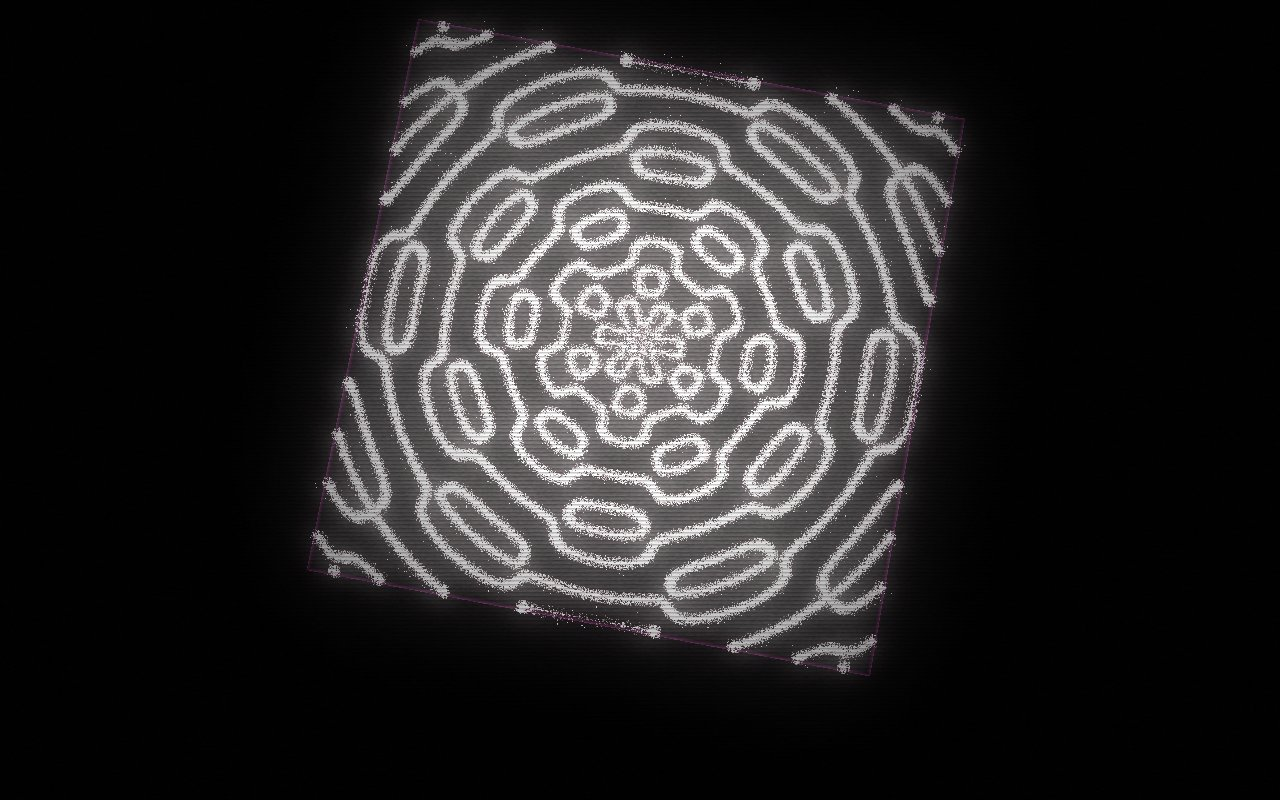
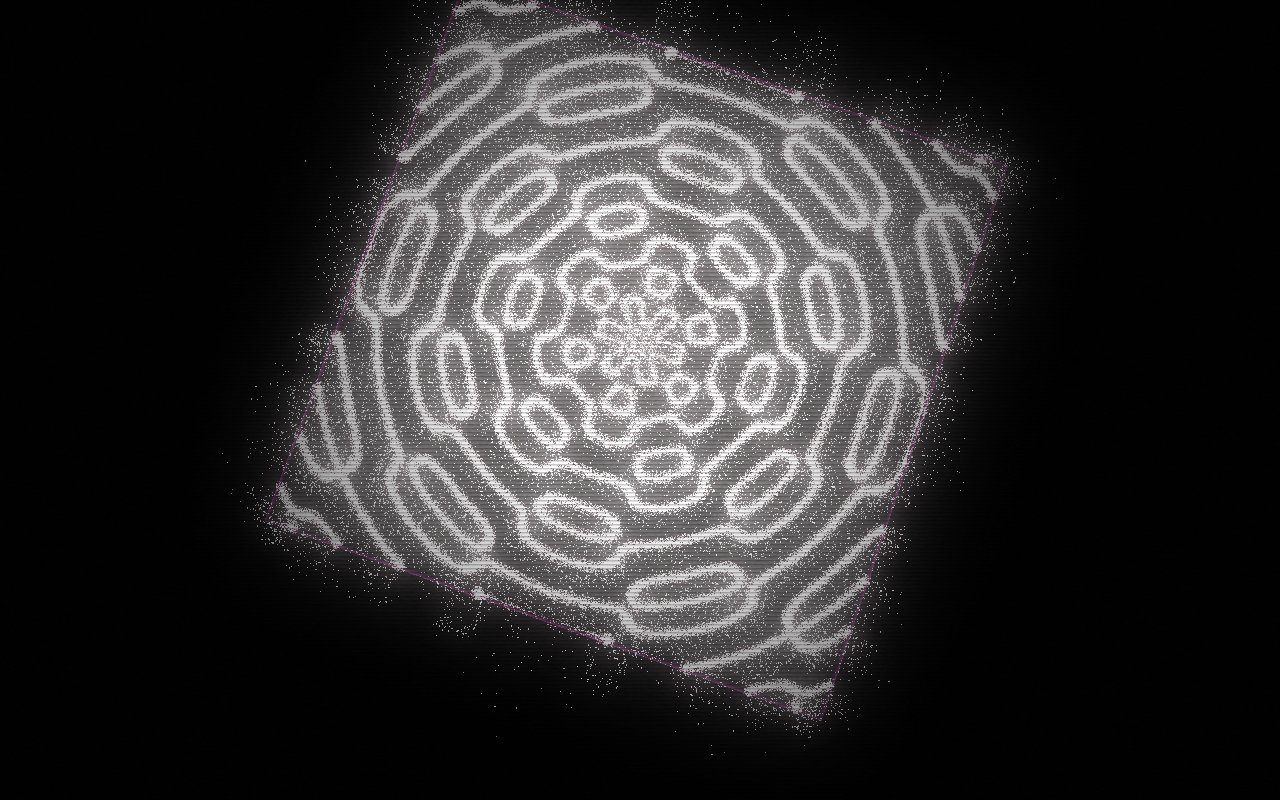
Cimática: upgrade — montaje cortado a ritmo (5 planos), polvo y saltos grandes, migraciones en arco, ruptura con la placa encendida
Claude-Session: https://claude.ai/code/session_01PHyPu7RkDzX2ru9pxXtJdV

Changed region(s): [[0.1875, 0.0, 0.8125, 0.9062]]

diff --git a/lab-32-cimatica/index.html b/lab-32-cimatica/index.html
@@ -494,7 +494,7 @@ canvas{width:100vw;height:100vh;display:block}
         vec3 r = reflect(rd, vec3(0, 1, 0));
         float soft = smoothstep(0.55, 0.95, dot(r, normalize(vec3(-0.6, 0.35, -0.7))));
         col = vec3(0.004) + vec3(0.9, 0.92, 1.) * soft * 0.03 * uKey;
-        col += mix(vec3(0.75, 0.8, 0.95), MAG, uAcc * 0.6) * pow(abs(U(p.xz, uMb)), 2.) * uPk * 0.05;   // la onda bajo la arena
+        col += mix(vec3(0.75, 0.8, 0.95), MAG, uAcc * 0.8) * pow(abs(U(p.xz, uMb)), 2.) * uPk * 0.07 + MAG * uAcc * 0.05 * (1. - smoothstep(0., 0.25, abs(U(p.xz, uMb))));   // la onda bajo la arena
         col *= 1. - 0.5 * smoothstep(0.6, 1.0, e);
         col += vec3(1.) * smoothstep(0.996, 1.0, e) * 0.08 * uKey;                  // canto fino
         col += MAG * smoothstep(0.985, 1.0, e) * uAcc * 0.9;                         // el canto se enciende en magenta
@@ -551,13 +551,22 @@ canvas{width:100vw;height:100vh;display:block}
     p += (vec2(hs(id + floor(uTime * 30.)), hs(id * 3. + floor(uTime * 30.))) - 0.5) * 0.004 * u * (1. - uFreeze);
     float y = 0.0015;
     // salto durante la migración
-    y += uHop * 0.018 * sin(PI * kk) * (0.4 + 0.6 * hs(id * 7.1));
+    y += uHop * 0.065 * sin(PI * kk) * (0.4 + 0.6 * hs(id * 7.1));
     // bombo: la placa golpea y salta la arena que no está en una línea nodal
-    float ka = uK.x; float dust = step(0.975, hs(id * 11.3));
-    if (ka >= 0. && ka < 0.9) { float dur = mix(0.12 + 0.18 * hs(id * 9.7), 0.5 + 0.35 * hs(id * 2.9), dust); float bt = ka / dur; if (bt < 1.) y += uK.y * mix(0.022, 0.16 + 0.12 * hs(id * 4.4), dust) * u * 4. * bt * (1. - bt); }
+    float ka = uK.x; float dust = step(0.88, hs(id * 11.3));
+    if (ka >= 0. && ka < 1.5) {
+      float dur = mix(0.16 + 0.2 * hs(id * 9.7), 0.7 + 0.6 * hs(id * 2.9), dust); float bt = ka / dur;
+      if (bt < 1.) {
+        float arc = 4. * bt * (1. - bt);
+        y += uK.y * mix(0.055, 0.25 + 0.4 * hs(id * 4.4), dust) * (0.3 + u) * arc;
+        // los granos se apartan de su línea y vuelven a caer en ella (se ve también desde arriba)
+        vec2 dir = normalize(vec2(hs(id * 3.3) - 0.5, hs(id * 5.9) - 0.5) + 1e-4);
+        p += dir * uK.y * mix(0.02, 0.09, dust) * (0.3 + u) * sin(3.14159 * bt);
+      }
+    }
     // caja: un anillo que recorre la placa
     float rs = length(p - uS.zw), ring = uS.x * 2.6;
-    if (uS.x >= 0. && uS.x < 0.6) y += uS.y * 0.05 * exp(-pow((rs - ring) / 0.06, 2.)) * (1. - uS.x / 0.6);
+    if (uS.x >= 0. && uS.x < 0.7) { float rw = exp(-pow((rs - ring) / 0.09, 2.)) * (1. - uS.x / 0.7); y += uS.y * 0.14 * rw * (0.6 + 0.8 * hs(id * 6.6)); p += normalize(p - uS.zw + 1e-4) * uS.y * 0.03 * rw; }
     vec3 P = vec3(p.x, y, p.y);
     // proyección (la misma cámara que la placa)
     vec3 d = P - uCam; float z = dot(d, uFw);
@@ -565,13 +574,13 @@ canvas{width:100vw;height:100vh;display:block}
     vec2 vv = s / vec2(uRes.x / uRes.y, 1.) + 0.5 + uShift;
     gl_Position = vec4(vv * 2. - 1., 0., 1.);
     float coc = abs(z - uFocus) * uAp;
-    gl_PointSize = clamp(uPx / z + coc * uRes.y, 1.2, 40.);
+    gl_PointSize = clamp(uPx / z + coc * uRes.y, 1.2, 12.);
     vC = coc * uRes.y;
     // brillo: luz rasante + destellos de los hats + la línea del metal
     float b = 0.55 + 0.45 * hs(id * 4.3);
     if (uHh.x >= 0. && uHh.x < 0.09 && hs(id * 0.77 + uHh.z) < 0.06) b += uHh.y * 3.5 * (1. - uHh.x / 0.09);
     if (uMt.x >= 0. && uMt.x < 0.18 && abs(p.x - uMt.z) < 0.018) b += uMt.y * 2.2 * (1. - uMt.x / 0.18);
-    b += y * 40.;
+    b += min(y * 35., 2.5) + dust * step(0.02, y) * 1.2;
     // destellos: granos que reflejan la luz rasante según el ángulo de cámara
     float glin = pow(max(0., sin(hs(id * 13.1) * 40. + dot(uFw, vec3(9., 0., 7.)) * 6.)), 60.);
     b += glin * 4.;
@@ -582,7 +591,7 @@ canvas{width:100vw;height:100vh;display:block}
   const vec3 MAG = vec3(1.0, 0.17, 0.84);
   void main(){
     vec2 c = gl_PointCoord * 2. - 1.; float r2 = dot(c, c); if (r2 > 1.) discard;
-    float bok = 1. / (1. + vC * vC * 0.12);                       // el grano desenfocado reparte su luz en el disco
+    float bok = 1. / (1. + vC * vC * 0.3);                       // el grano desenfocado reparte su luz en el disco
     float sh = 0.55 + 0.45 * max(0., dot(normalize(vec3(c.x, -c.y, sqrt(max(1. - r2, 0.)))), normalize(vec3(-0.5, 0.6, 0.6))));
     vec3 col = mix(vec3(1., 0.97, 0.92), MAG, uAcc * 0.35) * vB * sh * uKey;
     o = vec4(col * mix(1. - r2 * 0.5, 0.8 + 0.2 * r2, step(2., vC)) * 0.75 * bok, 1.);
@@ -605,6 +614,22 @@ canvas{width:100vw;height:100vh;display:block}
   function last(v, t, minS) { let L = null; for (const x of EV) { if (x.t > t) break; if (x.v === v && (minS === undefined || x.s >= minS)) L = x; } return L; }
   function modeAt(t) { let i = 0; for (let k = 0; k < MODES.length; k++) if (MODES[k].t <= t) i = k; return i; }
   const mv = (m) => [m.n, m.m, m.sg, m.c];
+  // planos: macro rasante · 3/4 · cenital · a ras del canto · contrapicado lejano
+  const SHOT_DEF = [
+    { az: 0.6, d: 0.85, el: 0.16, daz: 0.05, dd: 0.03, del: 0.01, tx: 0.25, tz: 0.2 },
+    { az: 1.1, d: 1.9, el: 0.55, daz: 0.07, dd: 0.05, del: 0.0, tx: 0, tz: 0 },
+    { az: 1.4, d: 2.2, el: 1.5, daz: 0.09, dd: 0.04, del: 0.0, tx: 0, tz: 0 },
+    { az: 2.3, d: 1.4, el: 0.07, daz: -0.04, dd: 0.0, del: 0.01, tx: -0.2, tz: 0.1 },
+    { az: -0.4, d: 1.25, el: 0.32, daz: 0.06, dd: -0.03, del: 0.02, tx: 0.1, tz: -0.3 },
+  ];
+  const SHOTS = [{ t: 0, k: 0, r: 0 }];
+  { let lastT = 0, n = 0;
+    for (const x of EV) {
+      if (x.v !== 'K' || x.t >= T.cut) continue;
+      const inB = x.t >= T.tense; const minGap = inB ? 0.45 : 2.4;
+      if ((x.s >= 0.95 || (inB && x.s >= 0.5)) && x.t - lastT >= minGap) { n++; SHOTS.push({ t: x.t, k: [1, 2, 0, 3, 4, 2, 1, 3, 0, 4][n % 10], r: ((n * 7919) % 100) / 100 - 0.5 }); lastT = x.t; }
+    }
+  }
   const kf = (pts, x) => { for (let i = 1; i < pts.length; i++) if (x <= pts[i][0]) { const [t0, v0] = pts[i - 1], [t1, v1] = pts[i]; return lerp(v0, v1, e.inOut(clamp((x - t0) / (t1 - t0)))); } return pts[pts.length - 1][1]; };
 
   let out = null;
@@ -620,11 +645,13 @@ canvas{width:100vw;height:100vh;display:block}
       const mig = M1.c ? 1.1 : (M1.t >= T.tense ? 0.32 : 0.6);
       const mix = mi === 0 ? 1 : clamp((t - M1.t) / mig);
       const K = last('K', t), S = last('S', t), Hh = last('H', t), Mt = last('M', t), R = last('R', t);
-      // cámara: macro rasante → 3/4 → cenital perfecto para el mandala → se eleva
-      const az = kf([[0, 0.6], [8, 1.3], [T.cut, 1.55], [T.rupt, 1.55], [T.sting, 2.2]], tReal);
-      const dist = kf([[0, 0.9], [3, 1.6], [8, 2.3], [T.cut, 2.0], [T.rupt, 2.0], [T.rupt + 1.6, 3.1], [T.sting, 3.8]], tReal);
-      const el = kf([[0, 0.18], [3, 0.42], [8, 0.62], [T.cut, 0.75], [T.rupt, 0.75], [T.rupt + 1.6, 1.52], [T.sting, 1.55]], tReal);
-      const tg = [kf([[0, 0.25], [3, 0.0]], tReal), 0, kf([[0, 0.2], [3, 0.0]], tReal)];
+      // montaje: la cámara corta de plano en los bombos fuertes (y en B, en cada bombo); cada plano deriva despacio
+      const cutsAt = SHOTS.filter((x) => x.t <= t); const sh = cutsAt[cutsAt.length - 1]; const lt = t - sh.t;
+      let az, dist, el, tg;
+      const P_ = SHOT_DEF[sh.k];
+      az = P_.az + sh.r * 0.8 + P_.daz * lt; dist = P_.d + P_.dd * lt; el = P_.el + P_.del * lt;
+      tg = [P_.tx + sh.r * 0.25, 0, P_.tz - sh.r * 0.2];
+      if (tReal >= T.rupt) { const ar = tReal - T.rupt; az = 1.55 + 0.12 * ar; dist = kf([[0, 1.9], [1.6, 3.0], [7, 3.7]], ar); el = kf([[0, 0.8], [1.6, 1.52], [7, 1.55]], ar); tg = [0, 0, 0]; }
       const cam = [tg[0] + Math.cos(el) * Math.sin(az) * dist, Math.sin(el) * dist, tg[2] + Math.cos(el) * Math.cos(az) * dist];
       let fw = [tg[0] - cam[0], tg[1] - cam[1], tg[2] - cam[2]]; const fl = Math.hypot(...fw); fw = fw.map((v) => v / fl);
       const upW = Math.abs(fw[1]) > 0.98 ? [Math.sin(az + Math.PI), 0, Math.cos(az + Math.PI)] : [0, 1, 0];
@@ -646,14 +673,14 @@ canvas{width:100vw;height:100vh;display:block}
       const U = PG.U;
       gl.uniform4f(U.uMa, ...mv(M0)); gl.uniform4f(U.uMb, ...mv(M1)); gl.uniform1f(U.uMix, mix); gl.uniform1f(U.uHop, M1.c ? 1.6 : 1);
       const age = (x) => (x ? t - x.t : -1);
-      const kS = R && t - R.t < 0.4 ? 2.4 : (K ? K.s : 0);
-      gl.uniform4f(U.uK, R && t - R.t < 0.4 ? t - R.t : age(K), cut ? 0 : kS, 0, 0);
+      const kS = R && t - R.t < 1.4 ? 3.2 : (K ? K.s : 0);
+      gl.uniform4f(U.uK, R && t - R.t < 1.4 ? (t - R.t) * 0.85 : age(K), cut ? 0 : kS, 0, 0);
       gl.uniform4f(U.uS, age(S), S ? S.s : 0, S ? S.off * 0.6 : 0, S ? (S.axis - 1) * 0.4 : 0);
       gl.uniform4f(U.uHh, age(Hh), Hh ? Hh.s : 0, Hh ? Hh.seed * 0.618 : 0, 0);
       gl.uniform4f(U.uMt, age(Mt), Mt ? Mt.s : 0, Mt ? (Mt.col / 32 - 1) * 0.95 : 0, 0);
       gl.uniform1f(U.uTime, t); gl.uniform1f(U.uFreeze, cut ? 1 : 0);
       gl.uniform1f(U.uPx, 2.6 * RH / 1920);
-      const focus = dist; const ap = kf([[0, 0.006], [3, 0.004], [8, 0.0015], [T.rupt + 1.6, 0.0004]], tReal);
+      const focus = dist; const ap = tReal >= T.rupt ? 0.0004 : [0.004, 0.0015, 0.0006, 0.0025, 0.002][sh.k];
       gl.uniform1f(U.uFocus, focus); gl.uniform1f(U.uAp, ap); gl.uniform1f(U.uKey, key); gl.uniform1f(U.uAcc, acc);
       gl.drawArrays(gl.POINTS, 0, NG);
       gl.disable(gl.BLEND);
